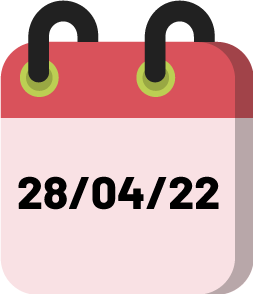
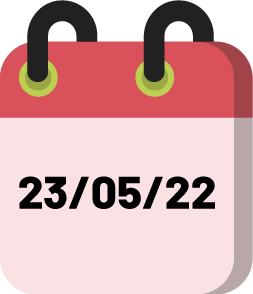
update

diff --git a/modulo-3/pages/capitulo_1.html b/modulo-3/pages/capitulo_1.html
@@ -84,7 +84,7 @@
       <div class="container">
           <div class="row">
               <div class="col-lg-8 col-12 mx-auto">
-                  <img data-aos="zoom-in" class="d-block img-fluid  mx-auto" src="assets/images/content/img-1.png" />
+                  <img data-aos="zoom-in" class="d-block img-fluid  mx-auto" src="assets/images/content/img-1.png" alt="Desenho do mapa mundi desfocado. " />
                   <!-- <p class="legenda">_legenda_</p> -->
               </div>
           </div>
@@ -106,7 +106,7 @@
       <div class="container">
           <div class="row">
               <div class="col-lg-7 col-sm-8 col-11 mx-auto">
-                  <img data-aos="zoom-in" class="d-block img-fluid  mx-auto" src="assets/images/content/2.png" />
+                  <img data-aos="zoom-in" class="d-block img-fluid  mx-auto" src="assets/images/content/2.png" alt="Fotografia de menino de costas mexendo em instrumentos de aprendizado. Ao lado, logo da Fundação Catarinense de Educação Especial com a silhueta de um boneco vermelho, mais logo do Núcleo de Atividades de Altas Habilidades barra Superdotação. "/>
                   <!-- <p class="legenda">_legenda_</p> -->
               </div>
           </div>
@@ -153,7 +153,7 @@
           <div class="norm-5"></div>
           <div class="norm-6"></div>
           <div class="norm-box">
-            <img class="norm-img" src="assets/images/identity/icon/normatizacao.png" />
+            <img class="norm-img" src="assets/images/identity/icon/normatizacao.png" alt="Linhas vermelhas formam dois colchetes e dentro está um ícone de uma caneta."/>
             <h4 class="norm-title">LEGISLAÇÃO</h4>
             <p class="mb-0">É dever do Estado garantir “<em>atendimento educacional especializado gratuito aos educandos com deficiência, transtornos globais do desenvolvimento e altas habilidades ou superdotação</em>, transversal a todos os níveis, etapas e modalidades, preferencialmente na rede regular de ensino” (BRASIL, 1996).</p>
           </div>
@@ -207,7 +207,7 @@
           <div class="norm-5"></div>
           <div class="norm-6"></div>
           <div class="norm-box">
-            <img class="norm-img" src="assets/images/identity/icon/normatizacao.png" />
+            <img class="norm-img" src="assets/images/identity/icon/normatizacao.png" alt="Linhas vermelhas formam dois colchetes, e dentro está um ícone de uma caneta."/>
             <h4 class="norm-title">LEGISLAÇÃO</h4>
             <p class="mb-0">Os estudantes com Altas Habilidades/Superdotação demonstram potencial elevado em qualquer uma das seguintes áreas, isoladas ou combinadas: <strong>intelectual, acadêmica, liderança, psicomotricidade </strong>e<strong> artes</strong>, além de apresentar grande criatividade, envolvimento na aprendizagem e realização de tarefas em áreas de seu interesse (BRASIL, 2008).</p>
           </div>
@@ -363,7 +363,7 @@
                     <div class="row">
                       <div class="col-12 text-editable listening" id="text-editable">
                         
-                        <img data-aos="zoom-in" class="img-fluid mx-auto boximg" src="assets/images/content/M3_fig3_web.svg" alt="" />
+                        <img data-aos="zoom-in" class="img-fluid mx-auto boximg" src="assets/images/content/M3_fig3_web.svg" alt="Desenho com duas silhuetas na cor branca: de um menino e de uma menina. Eles estão frente à frente. Ícones de elementos de química, microscópio, globo terrestre, esquadro, calculadora, DNA, quadro escolar e gráficos saem da cabeça do menino. E da cabeça da menina saem ícones de câmera fotográfica, coração, música, livro, tesoura, violão, pincel, aquarela, lápis de escrever, balão de diálogo e alfabeto em português." />
 
                         <p>É preciso lembrar que os alunos com AH/SD não apresentarão necessariamente todas essas características, ademais, quando as apresentam, podem não aparecer simultaneamente nem no mesmo nível, por isso, torna-se tão importante não generalizar.</p>
                       </div>
@@ -383,7 +383,7 @@
                     <div class="row">
                       <div class="col-12 text-editable listening" id="text-editable">
                         
-                        <img data-aos="zoom-in" class="img-fluid mx-auto boximg" src="assets/images/content/M3_fig4_web.svg" alt="" />
+                        <img data-aos="zoom-in" class="img-fluid mx-auto boximg" src="assets/images/content/M3_fig4_web.svg" alt="Desenho de um menino branco escrevendo, sentado atrás de uma mesa. Sobre a mesa estão três livros e um porta lápis. " />
 
                         <p>
                           Em sala de aula, os alunos podem ter mais facilidade para socialização, linguagem, capacidade de conceituação expressiva ou desempenho escolar superior.
@@ -615,7 +615,7 @@
                     <div class="row">
                       <div class="col-12 text-editable listening" id="text-editable">
                         <h4>Talentoso</h4>
-                        <img  data-aos="zoom-in" class="img-fluid mx-auto boximg" src="assets/images/content/slide-1/M3_fig6_web.png" alt="" />
+                        <img  data-aos="zoom-in" class="img-fluid mx-auto boximg" src="assets/images/content/slide-1/M3_fig6_web.png" alt="Desenho colorido de uma cabeça humana de onde saem ícones de música, aquarela e lápis de cor." />
 
                         <p>
                           Comumente, os termos superdotado e talentoso têm sido usados como sinônimos por especialistas do fenômeno das AH/SD, embora alguns estudiosos discordem dessa comparação. Segundo eles, a superdotação está relacionada ao domínio cognitivo, como um desempenho acadêmico elevado ou um marcante raciocínio abstrato, enquanto talentoso caracteriza o indivíduo que apresenta uma habilidade acima da média, quando comparada à população em geral, em uma ou mais áreas do conhecimento (ALENCAR, 2007).
@@ -637,7 +637,7 @@
                     <div class="row">
                       <div class="col-12 text-editable listening" id="text-editable">
                         <h4>Precoce</h4>
-                        <img  data-aos="zoom-in"class="img-fluid mx-auto boximg" src="assets/images/content/slide-1/M3_fig7_web.png" alt="" />
+                        <img  data-aos="zoom-in"class="img-fluid mx-auto boximg" src="assets/images/content/slide-1/M3_fig7_web.png" alt="Desenho de menino estudante branco com braço direito levantado. Ele está sobre quatro livros. Letras, ícones de interrogação, lâmpada e estrelas, estão ao redor dele. " />
 
                         <p>
                           Chama-se de precoce a criança que desenvolveu mais cedo o que outras aprendem em idade posterior. Sendo esse um fenômeno independente da superdotação e talento e não correspondente a uma determinada configuração intelectual, mas considerado algo evolutivo.
@@ -660,7 +660,7 @@
                     <div class="row">
                       <div class="col-12 text-editable listening" id="text-editable">
                         <h4>Prodígio</h4>
-                        <img  data-aos="zoom-in" class="img-fluid mx-auto boximg" src="assets/images/content/slide-1/M3_fig8_web.png" alt="" />
+                        <img  data-aos="zoom-in" class="img-fluid mx-auto boximg" src="assets/images/content/slide-1/M3_fig8_web.png" alt="Desenho de uma menina e um menino brancos, que estudam química. A menina está olhando no microscópio que está sobre uma mesa, onde também se encontram instrumentos de experiências químicas. Ao lado, o menino escreve no quadro escolar uma cadeia de elementos químicos." />
 
                         <p>São aquelas crianças que se caracterizam por uma performance extraordinária em seus primeiros anos, tendo, antes dos 10 anos, um desempenho similar ao de um adulto altamente qualificado em um determinado domínio (VIRGOLIN, 2007). Feldman (1993) acredita que os prodígios são indivíduos com talento acadêmico geral médio (ou acima da média) e talentos extraordinários em domínios específicos.</p>
 <p>De acordo com Virgolin (2001), o termo prodígio se refere a algo extremo, raro e único, fora do curso normal da natureza. Gardner (1995), por sua vez, comenta que os prodígios podem ter três destinos diferentes depois que crescem: a) deixar de ter o desempenho que tinham, temporária ou permanentemente; b) continuar com um desempenho de alto nível na vida adulta, tornando-se especialistas; e c) tornar-se <strong>criadores</strong> de primeira classe, o que requer passar de alguém que reproduz de maneira excepcional algo já existente (exemplo: um menino de 4 anos que toca piano com excelência tal qual seu professor) para alguém que cria seu próprio estilo (por exemplo, Mozart, que conseguiu ser um mestre criativo).</p>
@@ -683,7 +683,7 @@
                       <div class="col-12 text-editable listening" id="text-editable">
                         <h4><em>Savants</em></h4>
                         <p>Caracterizam-se por uma habilidade significativamente superior em uma área específica, ao mesmo tempo em que apresentam um atraso ou deficiência mental (ALENCAR, 2007). Podemos citar aqui Stephen Wiltshire, artista altamente habilidoso.</p>
-                        <img  data-aos="zoom-in" class="img-fluid mx-auto boximg" src="assets/images/content/slide-1/M3_fig9_web.png" alt="" />
+                        <img  data-aos="zoom-in" class="img-fluid mx-auto boximg" src="assets/images/content/slide-1/M3_fig9_web.png" alt="Fotografia de um homem negro pintando uma parede." />
                         <p class="fonte">Stephen Wiltshire é savants, artista altamente habilidoso que pintou uma cidade inteira utilizando apenas a memória. <strong>Foto</strong>: Em diálogo UFF, 2013.</p>
 
                         <p>
@@ -707,7 +707,7 @@
                     <div class="row">
                       <div class="col-12 text-editable listening" id="text-editable">
                         <h4>Gênios</h4>
-                        <img  data-aos="zoom-in" class="img-fluid mx-auto boximg" src="assets/images/content/slide-1/M3_fig10_web.png" alt="" />
+                        <img  data-aos="zoom-in" class="img-fluid mx-auto boximg" src="assets/images/content/slide-1/M3_fig10_web.png" alt="Desenho em preto e branco de Albert Einstein. " />
 
                         <p>O termo gênio deve ser reservado para descrever apenas os indivíduos que deixaram um legado à humanidade, que revolucionaram uma área do conhecimento pelas suas contribuições originais e de grande valor. Esses são os grandes realizadores da humanidade, cujo conhecimento e capacidades nos parecem sem limite, incrivelmente excepcionais e únicas.</p>
 <p>Os gênios apresentam precocidade em uma área específica e grande facilidade em memorizar fatos, nomes e acontecimentos, sendo raras as pessoas que atingem patamares excepcionais (VIRGOLIN, 2007). É importante salientar que todo gênio é superdotado, mas nem todo superdotado é gênio. </p>
@@ -729,7 +729,7 @@
                     <div class="row">
                       <div class="col-12 text-editable listening" id="text-editable">
                         <h4>Inteligência</h4>
-                        <img  data-aos="zoom-in" class="img-fluid mx-auto boximg" src="assets/images/content/slide-1/M3_fig11_web.svg" alt="" />
+                        <img  data-aos="zoom-in" class="img-fluid mx-auto boximg" src="assets/images/content/slide-1/M3_fig11_web.svg" alt="Desenho de uma silhueta de uma cabeça de um menino, na cor azul escuro. Dentro dela estão três círculos coloridos que se entrelaçam, e que contem ícones de letras, números, papel e caneta, fone de ouvido, notas musicais e câmera fotográfica. Ao redor da silhueta da cabeça do menino, se encontram ícones de microfone, microscópio, lâmpada, livro fechado, caderno e uma peça de xadrez." />
 
                         <p>Apesar do interesse pela temática da inteligência existir há tanto tempo, ainda é um tema gerador de polêmica, tanto em sua definição quanto em sua mensuração, pois abarca diversos significados em diferentes contextos e culturas, mas não há um conceito consensual entre os estudiosos da área.</p>
 <p>Alguns pesquisadores a definem como capacidade para resolver problemas matemáticos ou linguísticos, enquanto outros entendem que a inteligência está relacionada com a habilidade para se adaptar a diferentes situações e contextos, ou, ainda, consideram aspectos emocionais como fundamentais na pessoa considerada inteligente. Sendo assim, é impossível pensar em uma teoria geral da inteligência. </p>

diff --git a/modulo-3/pages/capitulo_0.html b/modulo-3/pages/capitulo_0.html
@@ -1,10 +1,18 @@
 <!-- CAPA -->
 <section class="cover">
-  <img class="d-none d-md-block cover-image" src="assets/images/identity/cover-img.png" />
+  <img class="d-none d-md-block cover-image" src="assets/images/identity/cover-img.png" alt="Desenho em formato de estrela com pontas arredondadas na cor verde com treze ícones de acessibilidade em linhas brancas.
+  Dois ícones de acessibilidade (pessoa dentro de um círculo).
+  Quatro ícones de autismo (peça de quebra-cabeça).
+  Um ícone de perda auditiva (orelha com aro).
+  Dois ícones de Libras (mãos sinalizando).
+  Um ícone de Braille (unidade dedos em ponto).
+  Um ícone de Deficiência intelectual (contorno cabeça humana com desenho cérebro dentro).
+  Dois ícones de Cadeirante (pessoa sentada em cadeira de rodas).
+  "/>
   <div class="container">
     <div class="row">
       <div class="col-lg-11 col-12 mx-auto">
-        <img class="marcas img-fluid" src="assets/images/identity/marcas.svg" />
+        <img class="marcas img-fluid" src="assets/images/identity/marcas.svg" alt="Desenho de uma estrela verde e vermelho, com pequenos círculos também em verde e vermelho entre as pontas. Abaixo está escrito em letras pretas Educação Especial no contexto da educação básica: Aspectos Teóricos e Metodológicos. Módulo Três Especificidades do Público da Educação Especial abre parênteses Altas 5, DI 8, DA 5, TEA 8, TDAH 5, DV 5, DF 4 fecha parênteses. Abaixo está escrito: Danielly Maia Ventura Martins, Luis Fernando Ferreira de Araujo, Mariele Finatto Lívia Ferreira, Sabrina Regina dos Santos, Fabiana de Melo Giacomini Garcez, Fernanda Faucz Andrade, Vanessa Paula Rizzotto, Andréia R. A. Panchiniak Sandra Duarte Hottersbach e Sibele do Amaral. "/>
         <div class="box-header">
           <h1>MÓDULO 3</h1>
           <h4>Especificidades do público da Educação Especial (ALTAS 5, DI 8, DA 5, TEA 8, TDAH 5, DV 5, DF 4)</h4>

diff --git a/portal/pages/capitulo_0.html b/portal/pages/capitulo_0.html
@@ -68,6 +68,8 @@
               público da educação especial, na sala de aula comum e como Segundo
               Professor de Turma.
             </p>
+            <p data-aos="fade-up">Mas há disponibilidade de vagas para outros profissionais, conforme descrito no item Inscrição.
+            </p>
           </div>
         </div>
       </div>
@@ -216,7 +218,7 @@
             <h1 data-aos="fade-right">Cronograma</h1>
 
             <p data-aos="fade-up">
-              O curso se iniciará em 28/04/2022 e o ocorrerá no período de 02
+              O curso se iniciará em 23/05/2022 e o ocorrerá no período de 02
               (dois) meses.
             </p>
           </div>
@@ -242,7 +244,7 @@
         <h1 data-aos="fade-left">Inscrição</h1>
         <p data-aos="fade-up">
           As inscrições serão realizadas entre <b>01/02/2022</b> e
-          <b>20/04/2022</b>
+          <b>18/05/2022</b>
           ou enquanto houver vagas disponíveis.
         </p>
       
@@ -260,7 +262,8 @@
         </p>
 
 
-        <p class="color-red">As inscrições estão estendidas para profissionais atuantes nas escolas, entre: coordenação e supervisão pedagógica, gestor escolar, diretor e assistente pedagógico. </p>
+        <p class="color-red">As inscrições estão estendidas para profissionais atuantes nas escolas, entre: coordenação e supervisão pedagógica, gestor escolar, diretor e assistente pedagógico. Além de coordenação pedagógica, professor AEE e estimulação essencial das APAEs.
+        </p>
 
 <p class="color-red">As vagas estão disponíveis para profissionais da rede para estadual, municipal e privada de ensino, em Santa Catarina.</p>
 

diff --git a/modulo-3/pages/capitulo_2.html b/modulo-3/pages/capitulo_2.html
@@ -163,7 +163,7 @@
     <div class="container">
         <div class="row">
             <div class="col-lg-7 col-sm-8 col-11 mx-auto">
-                <img  data-aos="fade-up-right" class="d-block img-fluid  mx-auto" src="assets/images/content/M3_fig14_web.png" />
+                <img  data-aos="fade-up-right" class="d-block img-fluid  mx-auto" alt="Desenho de uma mulher negra e um homem pardo, que conversam em língua de sinais. Atrás deles está um desenho de uma orelha e de um ícone de volume indicando sem som. " src="assets/images/content/M3_fig14_web.png" />
                 <!-- <p class="legenda">_legenda_</p> -->
             </div>
         </div>
